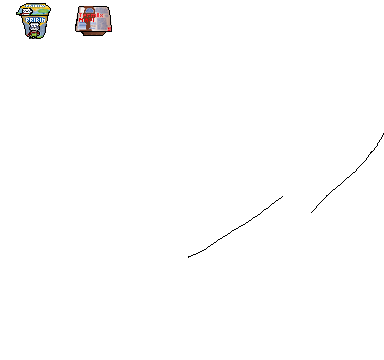
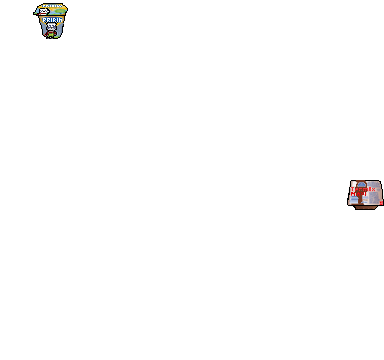
littleBrokenProducts

Changed region(s): [[0.0312, 0.0, 0.3125, 0.1222], [0.9062, 0.4889, 1.0, 0.5806]]

diff --git a/OP_version_1/OP/src/main/java/main/GameGraphics.java b/OP_version_1/OP/src/main/java/main/GameGraphics.java
@@ -37,14 +37,15 @@ public class GameGraphics extends JFrame {
         });
     }
 
+
     public static class Draw extends JPanel{
         private final GameLogic logic;
         private BufferedImage[][] animations;
         private int aniTick, aniIndex, aniSpeed = 20; //120fpsa /4frames in second == 30
         public int xDelta, yDelta;
-        private BufferedImage playerImg, productImage, backroundImage;
+        private BufferedImage playerImg, backroundImage;
+        private BufferedImage[] productImages;
         private int spriteAm = getSpriteAmount(PlayerValues.IDLE);
-        private String imageData;
 
         public Draw (GameLogic logic){
             this.logic = logic;
@@ -52,7 +53,7 @@ public class GameGraphics extends JFrame {
             yDelta = (int) logic.player.getY();//for the initial spawn point
             importBackroundImg();
             importPlayerImg();
-            importProductImg();
+            importProductImages();
             loadAni();
             setPanelSize();
         }
@@ -102,10 +103,13 @@ public class GameGraphics extends JFrame {
                 }
             }
         }
-        private void importProductImg() {
+        public void importProductImages(){
             InputStream is = getClass().getResourceAsStream("/products.photoshop.done.png");
             try {
-                productImage = ImageIO.read(is);
+                BufferedImage fullImage = ImageIO.read(is);
+                productImages = new BufferedImage[2];
+                productImages[0] = fullImage.getSubimage(0, 0, fullImage.getWidth() / 2, fullImage.getHeight());
+                productImages[1] = fullImage.getSubimage(fullImage.getWidth() / 2, 0, fullImage.getWidth() / 2, fullImage.getHeight());
             }catch (IOException e){
                 e.printStackTrace();
             }finally {
@@ -157,8 +161,12 @@ public class GameGraphics extends JFrame {
             g.drawImage(animations[currentAction.ordinal()][aniIndex], xDelta, yDelta, 128, 80, null);// players size || The ordinal() method in Java is used to get the ordinal value (the position) of an enum constant. Each enum constant has an ordinal value that represents its position in the enum declaration, starting from zero.
             //draw Product
             for(Products product: logic.products){
-                g.drawImage(productImage, (int) product.getX(), (int) product.getY(), product.getWidth() *3, product.getHeight() * 3, null);
+                g.drawImage(product.getImage(), (int) product.getX(), (int) product.getY(), product.getWidth() *3, product.getHeight() * 3, null);
             }
         }
+        public BufferedImage[] getProductImages(){
+            return productImages;
+        }
+
     }
 }

diff --git a/OP_version_1/OP/src/main/java/main/GameLogic.java b/OP_version_1/OP/src/main/java/main/GameLogic.java
@@ -6,6 +6,7 @@ import entity.PlayerValues;
 import entity.Products;
 
 import java.awt.event.KeyEvent;
+import java.awt.image.BufferedImage;
 import java.util.ArrayList;
 import java.util.Random;
 
@@ -16,6 +17,7 @@ public class GameLogic {
     GameGraphics gg;
     private int playerDir = -1; //IDLE
     private boolean moving = false;
+    private BufferedImage[] productImages;
 
     public void initialize() {
         player = new Player(230, 441, 64, 40, 3); //where is spawn player, y = 441 exact position of ground
@@ -25,6 +27,7 @@ public class GameLogic {
 
     public void setGameGraphics(GameGraphics gg) {
         this.gg = gg;
+        this.productImages = gg.draw.getProductImages();
     }
 
     public void updatePlayerAction(PlayerValues action) {
@@ -78,13 +81,17 @@ public class GameLogic {
         setAni();
         updatePos();
         updateProducts();
+        if (products.isEmpty()){
+            spawnProduct(); //ensures one product is spawned at a time
+        }
     }
 
     private void updateProducts() {
         for (int i = 0; i < products.size(); i++) {
             Products product = products.get(i);
             product.setY(product.getY() + 2); //falling speed
-            if (product.getPosition() >= 448) {   // they dont have exact right sizes like player so it needs to be slightly lower than for player
+            if (product.getPosition() +80 >= 441) {   // they dont have exact right sizes like player so it needs to be slightly lower than for player
+                product.setY(441 - 80);
                 products.remove(i);
                 i--; // Adjust the index to account for the removed item
             }
@@ -93,9 +100,10 @@ public class GameLogic {
 
     private void spawnProduct() {
         Random rnd = new Random();
-        float x = rnd.nextInt(gg.getWidth() - 256);//width of product dont forget to change it in GameGraphics
+        float x = rnd.nextInt(gg.getWidth() - 64);//width of product dont forget to change it in GameGraphics
         float y = 0;
         boolean isGood = descriptionOfProduct();
-        products.add(new Products(x, y, 256, 160, isGood, isGood ? 0 : 1));
+        BufferedImage productImage = productImages[rnd.nextInt(productImages.length)];
+        products.add(new Products(x, y, 64, 80, isGood, isGood ? 0 : 1, productImage));
     }
 }

diff --git a/OP_version_1/OP/src/main/java/entity/Products.java b/OP_version_1/OP/src/main/java/entity/Products.java
@@ -1,13 +1,17 @@
 package entity;
 
+import java.awt.image.BufferedImage;
+
 public class Products extends Entity {
     private int damageIfBad = 1;
     private boolean productDescription = true;
+    private BufferedImage image;
 
-    public Products(float x, float y, int width, int height, boolean productDescription, int damageIfBad) {
+    public Products(float x, float y, int width, int height, boolean productDescription, int damageIfBad, BufferedImage image) {
         super(x, y, width, height);
         this.productDescription = productDescription;
         this.damageIfBad = damageIfBad;
+        this.image = image;
     }
 
     public int getPosition(){
@@ -28,5 +32,11 @@ public class Products extends Entity {
 
     public void setProductDescription(boolean productDescription) {
         this.productDescription = productDescription;
+    }
+    public void setImage (BufferedImage image){
+        this.image = image;
+    }
+    public BufferedImage getImage(){
+        return image;
     }
 }
